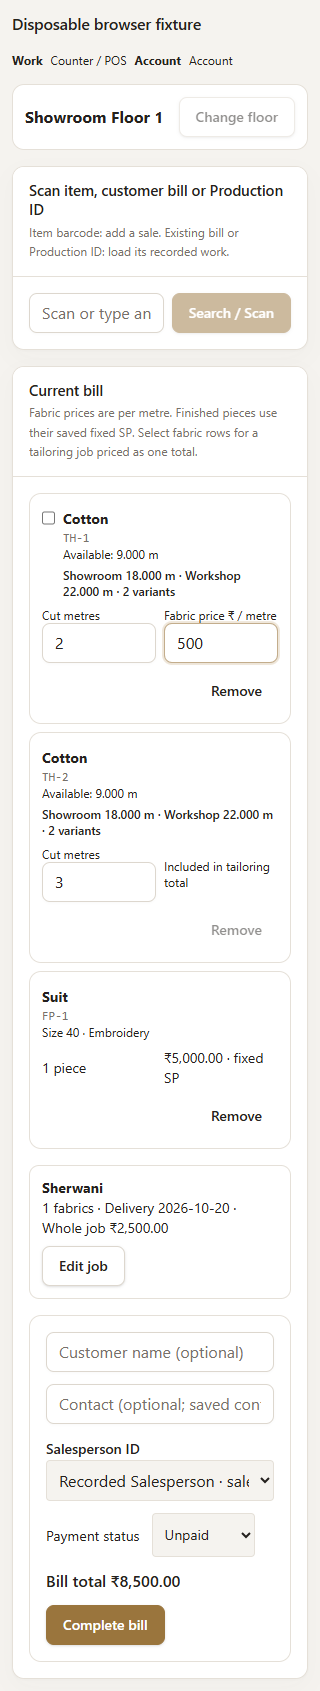
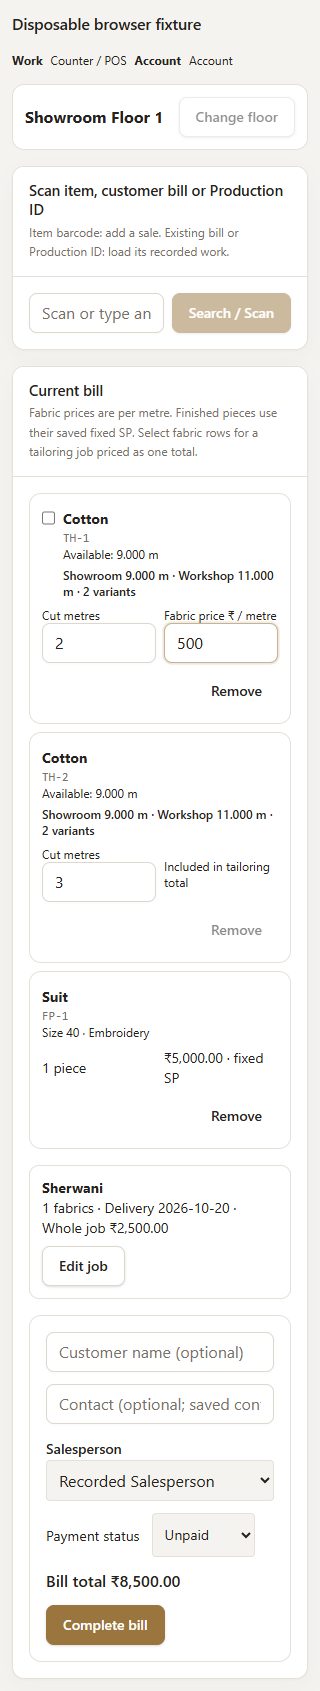
Show per-Thaan reserves and simplify Counter contact details

diff --git a/scripts/fixtures/workflow-workspaces/client.ts b/scripts/fixtures/workflow-workspaces/client.ts
@@ -2,8 +2,8 @@ const params=new URLSearchParams(location.search);
 const floor={id:'floor',name:'Showroom Floor 1',kind:'showroom_sublocation',parent_id:'showroom',active:true};
 const workshop={id:'workshop',name:'Workshop',kind:'workshop',parent_id:null,active:true};
 const products=[{id:'sherwani',name:'Sherwani',code:'SH',active:true},{id:'suit',name:'Suit',code:'SU',active:true}],designs=[{id:'design',name:'Embroidery',code:'DES-1',active:true}];
-const cuts=(code:string)=>[{inventory_item_id:'item-'+code,thaan_id:'thaan-'+code,locations:[{...floor,quantity_mm:9000},{...workshop,quantity_mm:11000}]}];
-const fabric=(code:string)=>({kind:'fabric',barcode:code,name:'Cotton',fabric_name:'Cotton',batch:'B0001',batch_code:'B0001',cuts:cuts(code),variants:['TH-1','TH-2'].map(barcode=>({barcode,fabric_name:'Cotton',batch_code:'B0001',cuts:cuts(barcode)}))});
+const cuts=(code:string)=>[{inventory_item_id:'item-'+code,thaan_id:'thaan-'+code,locations:params.has('barcodeDetails')?(code==='TH-1'?[{...floor,quantity_mm:9000}]:code==='TH-2'?[{...floor,quantity_mm:8000}]:[{...workshop,quantity_mm:10000}]):[{...floor,quantity_mm:9000},{...workshop,quantity_mm:11000}]}];
+const fabric=(code:string)=>({kind:'fabric',barcode:code,name:'Cotton',fabric_name:'Cotton',batch:'B0001',batch_code:'B0001',cuts:cuts(code),variants:(params.has('barcodeDetails')?Array.from({length:10},(_,i)=>'TH-'+(i+1)):['TH-1','TH-2']).map(barcode=>({barcode,fabric_name:'Cotton',batch_code:'B0001',cuts:cuts(barcode)}))});
 const piece={kind:'product',id:'piece',barcode:'FP-1',name:'Suit',design:'Embroidery',size:'40',sp_paise:500000,sp_version_id:'price',available:true};
 const doc={id:'production',code:'PROD-1',product:'Mixed products / sizes',design:'Per-piece specifications',size:null,quantity:2,status:'open',tailors:[{code:'T-1',name:'Ali'}],fabrics:[],pieces:[{piece_number:1,product:'Sherwani',design:'Embroidery',size:'38'},{piece_number:2,product:'Suit',design:'Embroidery',size:'40'}]};
 const existingReceipt={id:'existing-bill',code:'TAIL-BILL',created_at:'2026-10-15T08:00:00Z',total_paise:'250000',paid:true,paid_at:'2026-10-15T08:00:00Z',source:'Original Floor',salesperson:'Recorded Salesperson',customer:{name:'Recorded Customer',phone:null},lines:[]};
@@ -16,7 +16,7 @@ export const supabase={rpc:async(name:string,args:Record<string,unknown>={})=>{
  if(name==='inventory_locations')data=[floor,workshop,{id:'showroom',name:'Showroom',kind:'showroom',parent_id:null,active:true}];
  else if(name==='tailoring_work_catalog'||name==='owner_production_catalog')data={products,designs};
  else if(name==='tailoring_assignment_options')data=['a1','a2'].map((id,i)=>({id,factory_id:'factory',factory_name:'Central Factory',tailor_code:'T-'+(i+1),tailor_name:i?'Imran':'Ali',section_name:null}));
- else if(name==='salesperson_options')data=[{id:'salesperson',name:'Recorded Salesperson'}];
+ else if(name==='salesperson_options')data=[{id:params.has('barcodeDetails')?'3c8edb35-9c60-4e33-9b27-4ab67cd50132':'salesperson',name:'Recorded Salesperson'}];
  else if(name==='counter_scan_barcode')data=args.p_barcode==='FP-1'?piece:['TH-1','TH-2','COLLISION'].includes(String(args.p_barcode))?fabric(String(args.p_barcode)):args.p_barcode==='TH-WORKSHOP'?{...fabric('TH-WORKSHOP'),cuts:[{inventory_item_id:'workshop-only',locations:[{...workshop,quantity_mm:9000}]}]}:null;
  else if(name==='production_fabric_catalog')data=[fabric(String(args.p_barcode))];
  else if(name==='production_job_document')data=['production','PROD-1','COLLISION'].includes(String(args.p_code))?{...doc,cp_total_paise:987654321}:args.p_code==='PROD-CLOSED'?{...doc,id:'closed',code:'PROD-CLOSED',status:'completed'}:null;

diff --git a/src/features/pos/counter-workspace-model.ts b/src/features/pos/counter-workspace-model.ts
@@ -114,14 +114,14 @@ export function previewTotal(rows: CounterRow[], groups: TailoringGroup[]) {
   }
 }
 
-export function reserveTotals(scan: ScanRecord) {
+export function reserveTotals(scan: ScanRecord, selectedCut?: ReserveCut) {
   const totals = { showroom: 0, workshop: 0 };
-  for (const v of scan.variants ?? [{ cuts: scan.cuts ?? [] }])
-    for (const c of v.cuts)
-      for (const l of c.locations) {
-        if (l.kind === "workshop") totals.workshop += Number(l.quantity_mm);
-        else if (l.kind === "showroom" || l.kind === "showroom_sublocation")
-          totals.showroom += Number(l.quantity_mm);
-      }
+  // The row describes this physical Thaan; variants are available in the drawer.
+  for (const c of selectedCut ? [selectedCut] : (scan.cuts ?? []))
+    for (const l of c.locations) {
+      if (l.kind === "workshop") totals.workshop += Number(l.quantity_mm);
+      else if (l.kind === "showroom" || l.kind === "showroom_sublocation")
+        totals.showroom += Number(l.quantity_mm);
+    }
   return `Showroom ${reportQuantity(String(totals.showroom), "mm")} · Workshop ${reportQuantity(String(totals.workshop), "mm")} · ${scan.variants?.length ?? 1} variants`;
 }

diff --git a/src/features/pos/CounterWorkspace.tsx b/src/features/pos/CounterWorkspace.tsx
@@ -397,7 +397,7 @@ function CounterContent({
                                 className="h-auto max-w-full justify-start px-0 text-left whitespace-normal"
                                 onClick={() => setReserves(r.scan)}
                               >
-                                {reserveTotals(r.scan)}
+                                {reserveTotals(r.scan, r.cut)}
                               </Button>
                             </>
                           )}
@@ -561,10 +561,12 @@ function CounterContent({
                     />
                     <Input
                       aria-label="Customer contact optional"
-                      inputMode="tel"
+                      inputMode="numeric"
+                      pattern="[0-9]*"
+                      autoComplete="tel"
                       placeholder="Contact (optional; saved contacts are reused)"
                       value={contact}
-                      onChange={(e) => setContact(e.target.value)}
+                      onChange={(e) => setContact(e.target.value.replace(/[^0-9]/g, ""))}
                     />
                   </div>
                   <SalespersonPicker

diff --git a/src/features/salesperson/SalespersonPicker.tsx b/src/features/salesperson/SalespersonPicker.tsx
@@ -18,7 +18,7 @@ export function SalespersonPicker({
   const { can } = useSession();
   return (
     <div className="space-y-2">
-      <Label htmlFor={id}>Salesperson ID</Label>
+      <Label htmlFor={id}>Salesperson</Label>
       <select
         id={id}
         className="w-full rounded border bg-background p-2"
@@ -31,7 +31,7 @@ export function SalespersonPicker({
         <option value="">Select credited Salesperson</option>
         {options.data?.map((p) => (
           <option key={p.id} value={p.id}>
-            {p.name} · {p.id}
+            {p.name?.trim() || "Name not recorded"}
           </option>
         ))}
       </select>

diff --git a/docs/COUNTER_BARCODE_DETAILS.md b/docs/COUNTER_BARCODE_DETAILS.md
@@ -1,0 +1,26 @@
+The compact POS stock summary uses only the selected physical Thaan's current
+location balances. It no longer sums sibling variants. Showroom combines the
+same Thaan's Showroom floors, Workshop shows only that Thaan's Workshop balance,
+and the existing variant count and expanded batch/type/variant tree are retained.
+Choosing one physical cut from a shared old barcode also keeps the summary
+scoped to that selected cut. The selected-floor Available quantity is unchanged.
+
+Salesperson options display recorded names without appending database UUIDs.
+The original account UUID remains the option value submitted for attribution.
+Contact entry strips nondigits, requests a numeric keyboard and preserves
+leading zeros; the optional field has no new arbitrary length restriction.
+
+Forward 0053 / 20261015001100 adds a prospective INSERT guard on Counter bill
+payloads. New nonempty contacts must contain ASCII digits only. A rejected bill
+rolls back its customer, stock, costs and audit together. Existing contact data,
+printed receipts and exact historical bill retries remain intact. No existing
+record is normalized or rewritten during migration.
+
+Validation includes the user's exact 9 m Showroom / 0 m Workshop / 10-variant
+example, a second variant with a different balance, the unchanged expanded tree,
+name-only Salesperson text with original account attribution, typed/pasted
+contact input and mobile widths. Database replay covers legacy retries,
+optional/numeric contacts, leading zeros, saved-contact reuse, rejected input,
+full rollback and permissions.
+
+Validation passed: 2,148 cumulative database assertions across clean/populated Supabase and Drizzle replay; 18 focused detail browser checks; 28 unified-scanner and 27 combined-workflow regression checks; TypeScript, scoped ESLint and isolated Vercel production build. Live schema dry-run matches the canonical existing schema.

diff --git a/MAQDOOMS_Big_Mall_ERP_Implementation_History.md b/MAQDOOMS_Big_Mall_ERP_Implementation_History.md
@@ -6212,3 +6212,7 @@ Completed: 0052 applied with all rows in 97 existing public tables preserved. Al
 # 58. SINGLE COUNTER BARCODE WORKSPACE — 15 OCTOBER 2026
 
 Counter uses POS and Account only. After selecting a physical Showroom floor, one existing barcode field routes items to a new sale, customer bill/job IDs to their recorded tailoring work, and Production IDs to their existing document. Subsequent fabric is issued through the existing permission-checked RPCs against the chosen job and current floor, keeping customer totals unchanged. Multiple customer jobs require selection; unknown/ambiguous identifiers, closed jobs and pending retail/issue states are protected. Owner/Tailor/Production and combined-role workspaces remain available. See docs/COUNTER_UNIFIED_SCAN.md.
+
+# 59. PHYSICAL BARCODE BALANCES, SALESPERSON NAMES AND NUMERIC CONTACT — 15 OCTOBER 2026
+
+POS compact reserves show only the selected Thaan balances, while the existing expanded tree retains every variant. Salesperson names replace visible UUID suffixes while attribution IDs remain unchanged. Optional contact input accepts digits and preserves leading zeros. Forward 0053 prospectively validates new Counter bill contacts without editing existing customer/bill history or breaking exact historical retries. See docs/COUNTER_BARCODE_DETAILS.md and validation proof files.

diff --git a/MAQDOOMS_Big_Mall_ERP_Implementation_Master_Plan.md b/MAQDOOMS_Big_Mall_ERP_Implementation_Master_Plan.md
@@ -1895,3 +1895,7 @@ Completed: 0052 applied with all rows in 97 existing public tables preserved. Al
 # 58. SINGLE COUNTER BARCODE WORKSPACE — 15 OCTOBER 2026
 
 Counter uses POS and Account only. After selecting a physical Showroom floor, one existing barcode field routes items to a new sale, customer bill/job IDs to their recorded tailoring work, and Production IDs to their existing document. Subsequent fabric is issued through the existing permission-checked RPCs against the chosen job and current floor, keeping customer totals unchanged. Multiple customer jobs require selection; unknown/ambiguous identifiers, closed jobs and pending retail/issue states are protected. Owner/Tailor/Production and combined-role workspaces remain available. See docs/COUNTER_UNIFIED_SCAN.md.
+
+# 59. PHYSICAL BARCODE BALANCES, SALESPERSON NAMES AND NUMERIC CONTACT — 15 OCTOBER 2026
+
+POS compact reserves show only the selected Thaan balances, while the existing expanded tree retains every variant. Salesperson names replace visible UUID suffixes while attribution IDs remain unchanged. Optional contact input accepts digits and preserves leading zeros. Forward 0053 prospectively validates new Counter bill contacts without editing existing customer/bill history or breaking exact historical retries. See docs/COUNTER_BARCODE_DETAILS.md and validation proof files.
